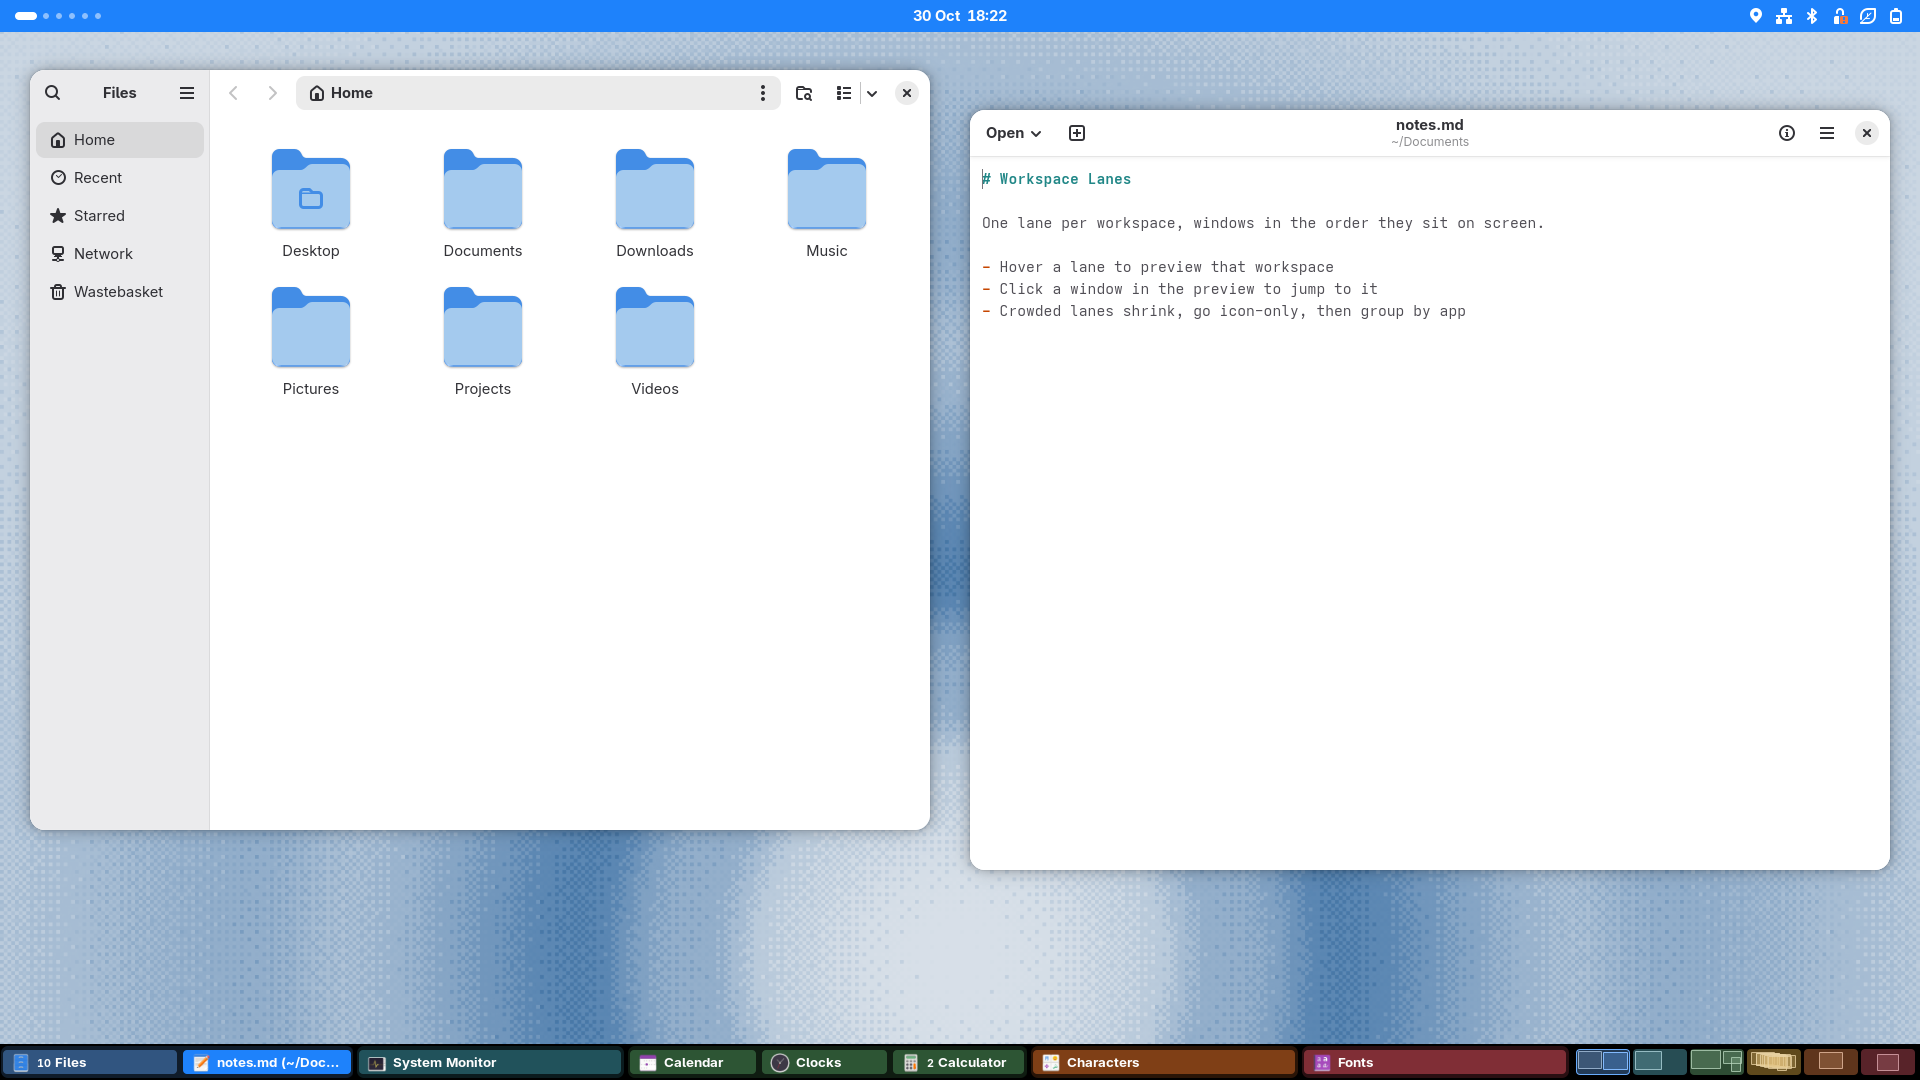
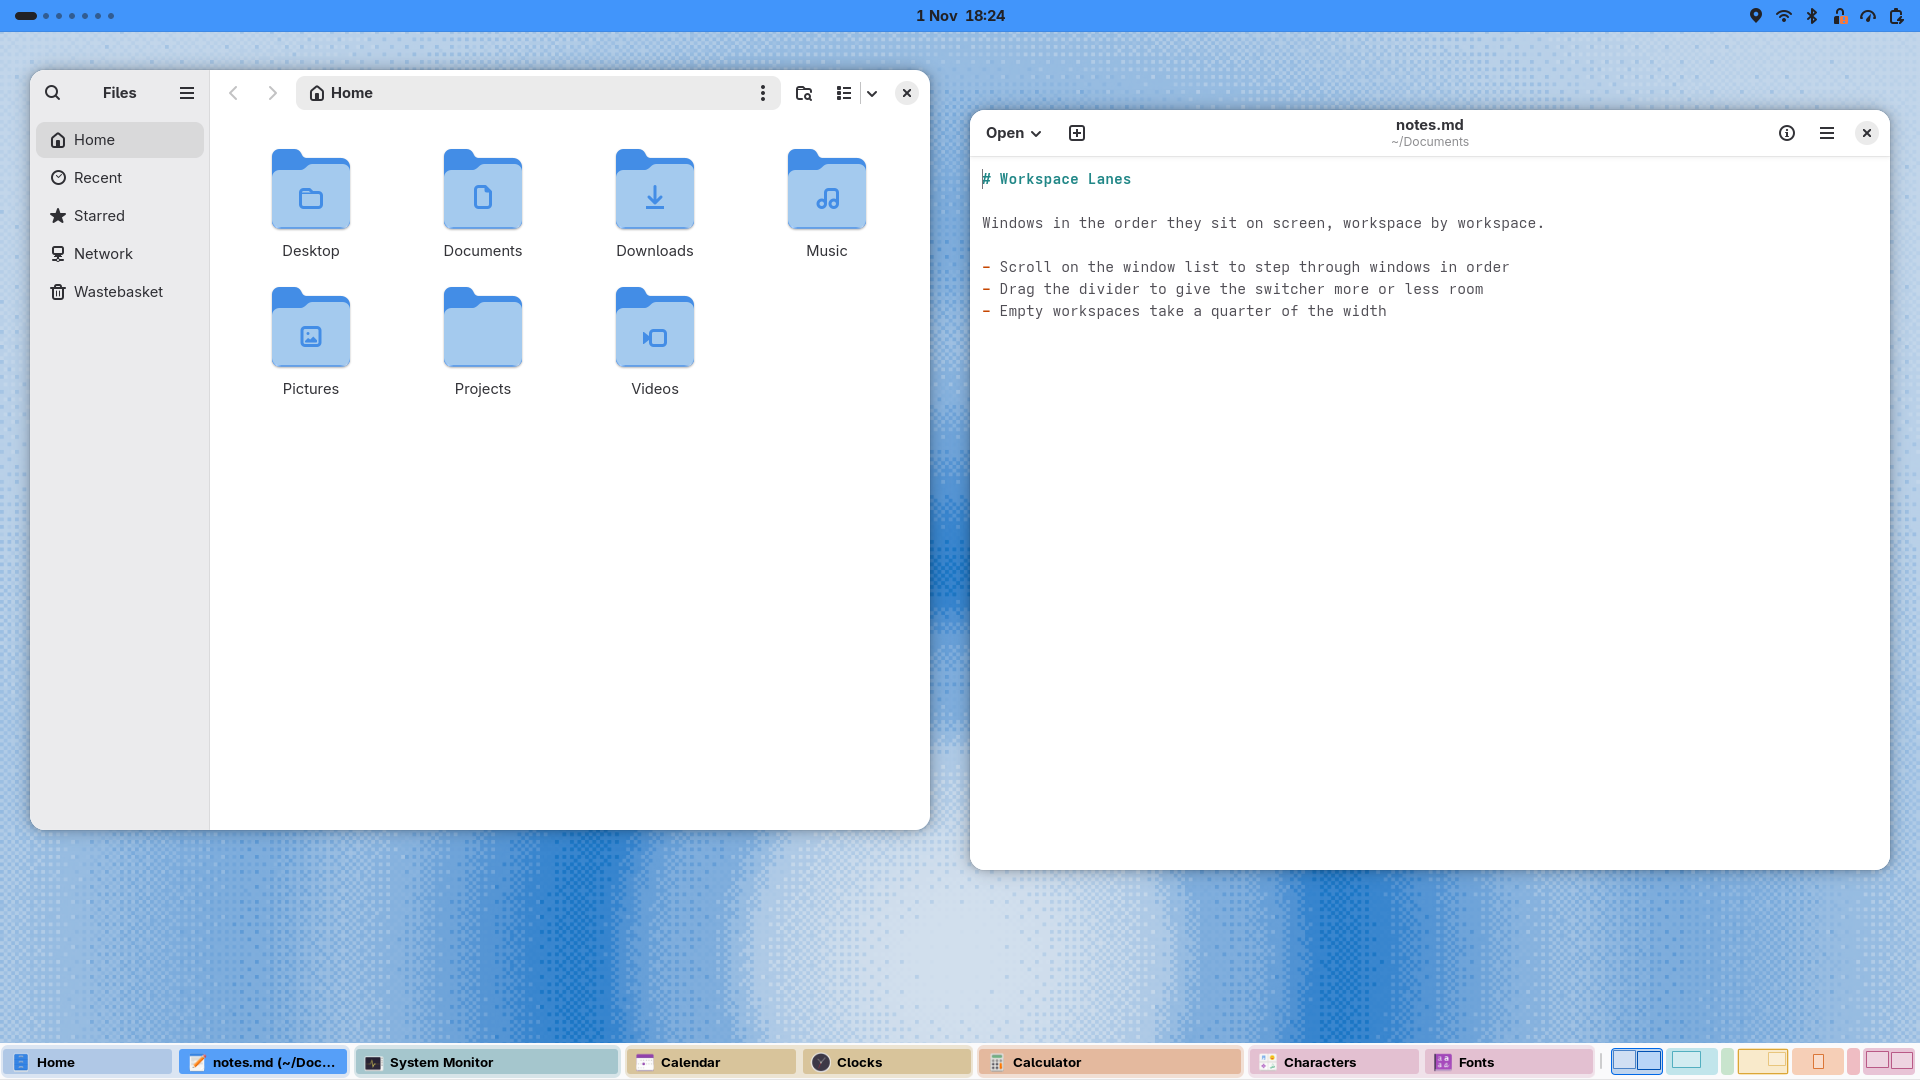
README: Add highlights, release install steps and a new window list screenshot

diff --git a/README.md b/README.md
@@ -10,30 +10,52 @@ re-sorting live as you move them.
 ![Hovering lanes to preview workspaces, jumping to a window from a preview,
 and dragging a window so its button re-sorts](screenshots/workspace-lanes-demo.gif)
 
-Two layouts, switchable from Settings or by right-clicking empty space on
-the bar:
+## Highlights
 
-- **Workspace lanes** (default): the bar is split into one even-width
+- **Every window in a predictable place.** Buttons follow your desktop:
+  workspace 1's windows first, then each workspace's windows left to
+  right as they sit on screen. They re-sort live as you move windows.
+- **Scroll through your windows in order.** In the window list layout,
+  scrolling on the window list moves focus to the next or previous window
+  in the bar's order. At the end of a workspace it carries on into the
+  next one and switches to it. Grouped windows are stepped through one at
+  a time, and minimized ones are skipped.
+- **A colour for every workspace.** The taskbar, top bar, previews,
+  wallpaper and even GNOME's accent colour can follow the workspace you're
+  on, so you can tell where you are at a glance.
+- **Click to minimize, click to bring back.** Clicking the focused
+  window's button minimizes it, and the button keeps its place on the bar.
+- **Drag a window to another workspace.** Drop its button on another
+  workspace's lane, on a workspace preview, or on a switcher thumbnail.
+- **See where Alt+Tab is taking you.** While you switch between an app's
+  windows with Alt+` (or between windows with Alt+Tab), the selected
+  window's button is highlighted on the taskbar. GNOME's own switcher and
+  shortcuts are used as they are.
+
+If you keep lots of windows open across several workspaces and lose track
+of them (a common experience with ADHD), Workspace Lanes gives each window
+a fixed, visible place. Windows stay in the same order as on screen, and
+each workspace has its own colour.
+
+## Two layouts
+
+Switch between them in Settings or by right-clicking empty space on the
+bar.
+
+- **Window list**: looks and behaves like GNOME's Window List, with its
+  workspace switcher on the right, but uses the ordering described above.
+  Empty workspaces take a quarter of the width of ones with windows. Drag
+  the divider before the switcher to give it more or less room
+  (double-click the divider to reset it). Scrolling over the switcher
+  changes workspace.
+- **Workspace lanes** (the default): the bar is split into one even-width
   lane per workspace, and each window's button sits in its workspace's
   lane. Crowded lanes collapse in stages: labels shrink, then buttons go
   icon-only, then windows of the same app merge into one icon with a
-  count. Hover a lane for a live preview of that workspace; click a window
-  in the preview to jump to it, or the empty space to switch workspace.
-  Clicking empty space in a lane switches workspace, scrolling on the bar
-  moves between workspaces.
-- **Window list**: looks and behaves like Window List (with its workspace
-  switcher on the right) but with the same spatial ordering. Empty
-  workspaces take a quarter of the width of ones with windows, and you can
-  drag the divider before the switcher to give it more or less room
-  (double-click the divider to reset it).
-
-**Scroll through your windows in order.** In the window list layout,
-scrolling anywhere on the window list moves focus to the next or previous
-window in the bar's order: through each workspace's windows from left to
-right, then on to the next workspace, switching to it as you go. Grouped
-windows are stepped through one at a time, and minimized ones are skipped.
-Scrolling over the workspace switcher changes workspace instead, and in the
-lanes layout scrolling anywhere on the bar changes workspace.
+  count. Hover a lane for a live preview of that workspace. Click a window
+  in the preview to jump to it, or click its empty space to switch
+  workspace. Clicking empty space in a lane also switches workspace, and
+  scrolling on the bar moves between workspaces.
 
 ![One lane per workspace, each with its windows in the order they sit
 on screen](screenshots/1-lanes.png)
@@ -44,18 +66,14 @@ workspace](screenshots/2-hover-preview.png)
 ![Crowded lanes: full labels, icon-only buttons, and nine Files windows
 grouped into one, with the yellow workspace's preview open](screenshots/3-crowded-lanes.png)
 
-![The Window List layout, with the workspace switcher on the right](screenshots/4-window-list-layout.png)
+![The window list layout, with the workspace switcher on the right and
+narrower thumbnails for empty workspaces](screenshots/4-window-list-layout.png)
 
 ![Dark style: the teal workspace tints the top bar, its lane and the
 wallpaper](screenshots/5-dark-style.png)
 
 Monitors that don't have workspaces (when workspaces are on the primary
 monitor only) get a plain list of their own windows, sorted left to right.
-
-While you switch between an app's windows with Alt+` (or between windows
-with Alt+Tab), the selected window's button is highlighted on the taskbar,
-so you can see which one you're about to pick and where it is. GNOME's own
-switcher and shortcuts are used as they are.
 
 ## Settings
 
@@ -102,7 +120,25 @@ divider before it rather than in Settings.
 
 ## Install
 
-From a clone of this repository:
+Workspace Lanes needs GNOME Shell 50.
+
+**From a release:** download
+`workspace-lanes@truenorth-tools.shell-extension.zip` from the
+[latest release](https://github.com/truenorth-tools/workspace-lanes/releases/latest),
+then run:
+
+```bash
+gnome-extensions install --force workspace-lanes@truenorth-tools.shell-extension.zip
+```
+
+Log out and back in, then (first install only):
+
+```bash
+gnome-extensions disable window-list@gnome-shell-extensions.gcampax.github.com
+gnome-extensions enable workspace-lanes@truenorth-tools
+```
+
+**From a clone of this repository:**
 
 ```bash
 ./install.sh
